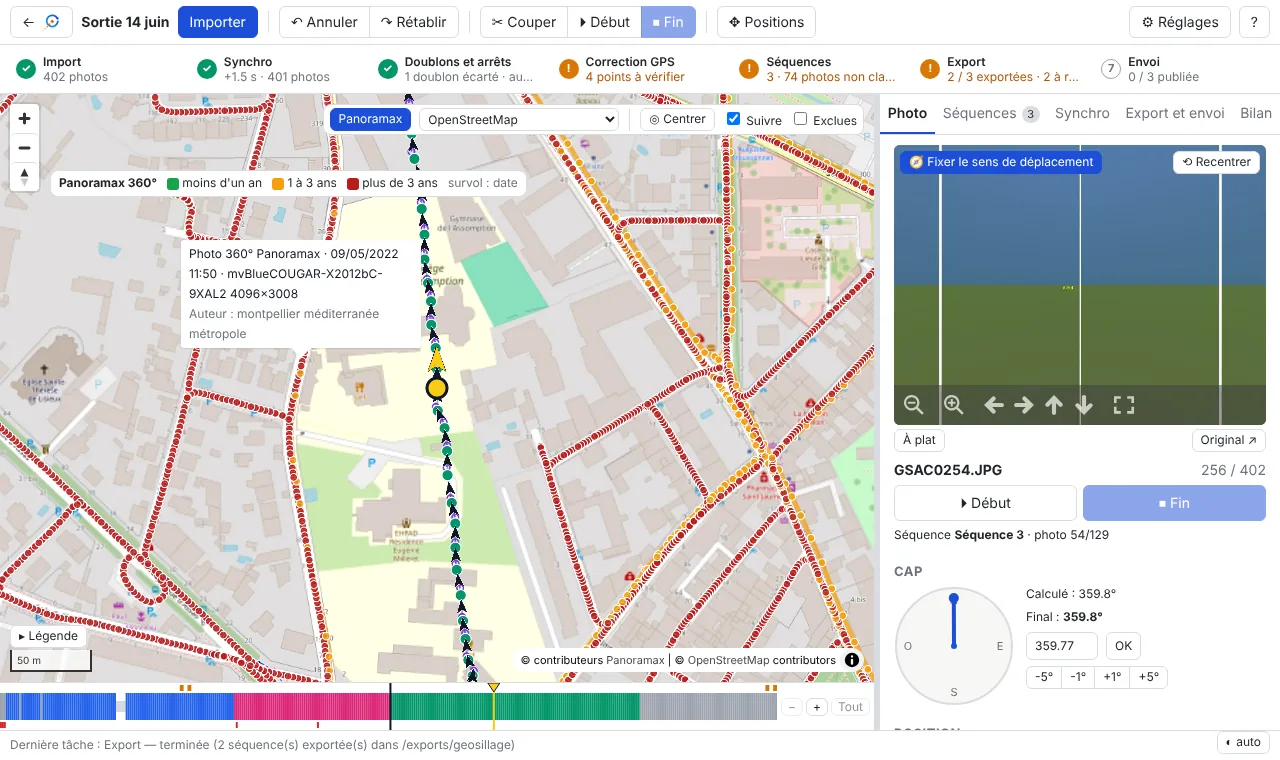
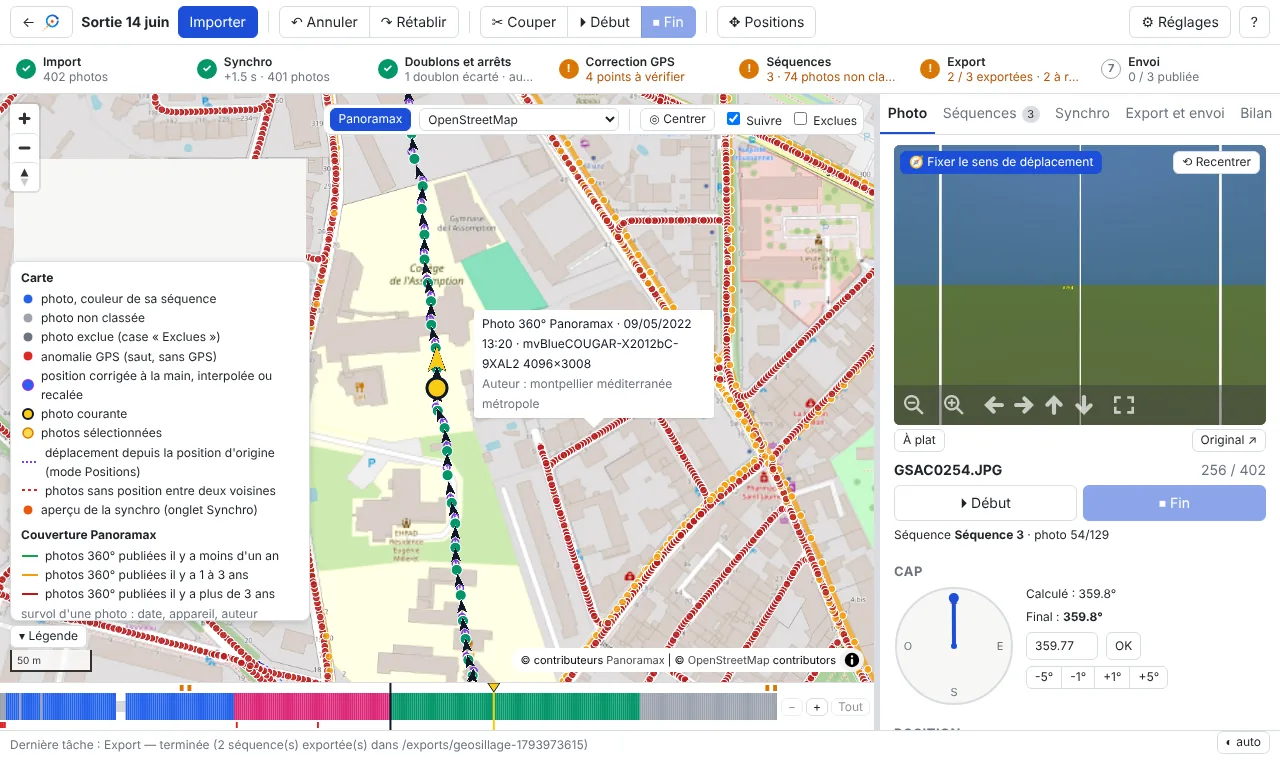
Légende de la couverture Panoramax dans la légende de la carte (#10)
* Légende de la couverture Panoramax dans la légende de la carte

Demande de Quentin : la légende flottante de la couverture Panoramax (classes d'âge) quitte le haut de la carte et
rejoint la légende repliable (groupe « Couverture Panoramax », affiché quand la couverture l'est). La légende est
limitée en hauteur (défilement) pour ne jamais recouvrir les boutons de zoom. Commentaire de PublishOptionsPanel
complété (bouton « Publier les n séquences »).

Claude-Session: https://claude.ai/code/session_01UxooiVhdVeQwoswzGWUzwV

* Revue #10 : capture de la couverture Panoramax avec la légende ouverte

doc/images/10-panoramax.webp régénérée (tools/captures.sh) : plus de boîte en haut de la carte, la légende est
ouverte avec le groupe « Couverture Panoramax » (captures.js l'ouvre avant la capture, et place la bulle de survol
hors de la légende). Hauteur maximale de la légende réduite : à 760 px de haut, son sommet passait sous les
boutons de zoom (vérifié à 960, 860, 760 et 700 px).

Claude-Session: https://claude.ai/code/session_01UxooiVhdVeQwoswzGWUzwV

---------

Changed region(s): [[0.0, 0.2118, 0.4062, 0.8171], [0.3438, 0.3934, 0.5625, 0.575], [0.4062, 0.9684, 0.4688, 0.9987]]

diff --git a/tools/captures.js b/tools/captures.js
@@ -65,12 +65,14 @@ const OUT = process.argv[2], BASE = process.argv[3] || 'http://127.0.0.1:8767/';
   // Panoramax overlay (real data from the meta-catalogue)
   await p.selectOption('select[aria-label="Fond de carte"]', 'osm'); await wait(800);
   await go(250); await p.click('button:has-text("Panoramax")'); await wait();
+  await p.click('.map-legend button'); await wait(300); // legend open: age classes of the coverage
   await p.evaluate(() => window.__pssMap.jumpTo({ zoom: 16.5 })); await tiles(); await wait(2500);
   const pt = await p.evaluate(() => { const m = window.__pssMap; const fs = m.queryRenderedFeatures({ layers: ['pnx-pictures'] }); const r = m.getContainer().getBoundingClientRect();
-    const f = fs.find(f => { const c = m.project(f.geometry.coordinates); return c.x > 150 && c.x < r.width - 150 && c.y > 150 && c.y < r.height - 150 }); if (!f) return null; const c = m.project(f.geometry.coordinates); return [c.x + r.left, c.y + r.top] });
+    const f = fs.find(f => { const c = m.project(f.geometry.coordinates); return c.x > 360 && c.x < r.width - 150 && c.y > 150 && c.y < r.height - 150 }); if (!f) return null; const c = m.project(f.geometry.coordinates); return [c.x + r.left, c.y + r.top] });
   if (pt) { await p.mouse.move(pt[0], pt[1]); await p.waitForSelector('.pnx-popup'); await p.waitForFunction(() => !/…/.test(document.querySelector('.pnx-popup').innerText), null, { timeout: 15000 }).catch(() => {}); }
   console.log('popup', pt && await p.locator('.pnx-popup').innerText().catch(() => ''));
   await shot('10-panoramax');
+  await p.click('.map-legend button'); await wait(300);
   await p.mouse.move(5, 300); await p.click('button:has-text("Panoramax")'); await wait();
 
   console.log('errors', JSON.stringify(errors)); await b.close();

diff --git a/frontend/src/ProjectView.tsx b/frontend/src/ProjectView.tsx
@@ -19,7 +19,7 @@ import { AddBasemap, Confirm, ValueDialog } from './Dialogs'
 import SequencesTab from './SequencesTab'
 import SyncTab from './SyncTab'
 import { positionAt, Track } from './timesync'
-import { AGE_CLASSES, loadOverlay, OverlaySettings, saveOverlay } from './panoramaxLayer'
+import { loadOverlay, OverlaySettings, saveOverlay } from './panoramaxLayer'
 import Timeline from './Timeline'
 import Viewer360 from './Viewer360'
 import ContextMenu, { MenuItem } from './ContextMenu'
@@ -1310,7 +1310,7 @@ export default function ProjectView({ projectId, onBack }: { projectId: string; 
               api.setPosition(projectId, id, lat, lon).then((r) => afterHeadingChange(r.undo), (er) => setError(er.message))
             }}
           />
-          <MapLegend />
+          <MapLegend panoramax={overlay.enabled ? overlay.url : null} />
           {(seqStart != null || (range && range[1] > range[0])) && !snapOpen && (
             <div className="selection-chip small-text" role="status">
               {seqStart != null ? (
@@ -1375,17 +1375,6 @@ export default function ProjectView({ projectId, onBack }: { projectId: string; 
               </label>
             )}
           </div>
-          {overlay.enabled && (
-            <div className="pnx-legend small-text" title={overlay.url}>
-              <strong>Panoramax 360°</strong>
-              {AGE_CLASSES.map((c) => (
-                <span key={c.label}>
-                  <span className="chip" style={{ background: c.color }} /> {c.label}
-                </span>
-              ))}
-              <span className="muted">survol : date</span>
-            </div>
-          )}
           {issuesStep && (
             <IssuesPanel
               step={issuesStep}

diff --git a/frontend/src/MapLegend.tsx b/frontend/src/MapLegend.tsx
@@ -1,4 +1,5 @@
 import { ReactNode, useState } from 'react'
+import { AGE_CLASSES } from './panoramaxLayer'
 
 // Meaning of the colours and marks of the map and the timeline (folded by default, remembered)
 const dot = (fill: string, stroke = '#ffffff', w = 1) => (
@@ -39,7 +40,8 @@ const TIMELINE: [ReactNode, string][] = [
   [bar('rgba(250,204,21,0.5)'), 'plage sélectionnée'],
 ]
 
-export default function MapLegend() {
+// panoramax: source of the coverage of photos already published, when shown on the map (null: hidden)
+export default function MapLegend({ panoramax }: { panoramax: string | null }) {
   const [open, setOpenState] = useState(() => {
     try {
       return localStorage.getItem('pss-legend') === '1'
@@ -70,6 +72,19 @@ export default function MapLegend() {
               </li>
             ))}
           </ul>
+          {panoramax && (
+            <>
+              <strong title={panoramax}>Couverture Panoramax</strong>
+              <ul>
+                {AGE_CLASSES.map((c) => (
+                  <li key={c.label}>
+                    {line(c.color)} photos 360° publiées il y a {c.label}
+                  </li>
+                ))}
+                <li className="muted">survol d'une photo : date, appareil, auteur</li>
+              </ul>
+            </>
+          )}
           <strong>Timeline</strong>
           <ul>
             {TIMELINE.map(([icon, label]) => (

diff --git a/frontend/src/styles.css b/frontend/src/styles.css
@@ -785,21 +785,6 @@ input.coord {
 .center {
   position: relative;
 }
-.pnx-legend {
-  position: absolute;
-  left: 50px;
-  top: 76px; /* under the map controls (Panoramax, background map, Centrer…), even on two lines */
-  z-index: 5;
-  display: flex;
-  gap: 10px;
-  flex-wrap: wrap;
-  align-items: center;
-  background: var(--panel);
-  border: 1px solid var(--border);
-  border-radius: 8px;
-  padding: 4px 8px;
-  max-width: calc(100% - 70px);
-}
 .pnx-popup .maplibregl-popup-content {
   padding: 4px 8px;
   font-size: 12px;
@@ -1272,6 +1257,8 @@ input.coord {
   gap: 4px;
 }
 .map-legend-body {
+  max-height: min(55vh, calc(100vh - 400px)); /* never over the zoom buttons: scrolls instead */
+  overflow-y: auto;
   background: var(--panel);
   border: 1px solid var(--border);
   border-radius: 8px;

diff --git a/frontend/src/Publication.tsx b/frontend/src/Publication.tsx
@@ -34,8 +34,9 @@ export function usePublishOptions() {
 }
 export type PublishOptions = ReturnType<typeof usePublishOptions>
 
-// Section « Publier sur Panoramax » of the Export tab: connection and options; each exported sequence has its own
-// « Publier » button in the list above
+// Section « Publier sur Panoramax » of the Export tab: connection, options, and « Publier les n séquences exportées non
+// publiées » (one confirmation, one api.publish call); each exported sequence also has its own « Publier » button in
+// the list above
 export function PublishOptionsPanel({
   o,
   projectId,

diff --git a/doc/GUIDE_UTILISATEUR.md b/doc/GUIDE_UTILISATEUR.md
@@ -162,8 +162,9 @@ séquences ont été corrigées depuis leur import ou leur dernier envoi).
 ### Surcouche Panoramax
 
 Bouton **Panoramax** (contrôles de la carte, en haut à droite) : affiche les photos 360° **déjà publiées**, pour voir ce qui manque ou ce qui est ancien.
-Couleur selon l'âge : vert moins d'un an, orange 1 à 3 ans, rouge plus de 3 ans. Séquences visibles à partir du
-zoom 7, photos à partir du zoom 15. Au survol : date, appareil, **auteur**.
+Couleur selon l'âge : vert moins d'un an, orange 1 à 3 ans, rouge plus de 3 ans (rappelé dans la **Légende** de la
+carte, groupe *Couverture Panoramax*, quand la couverture est affichée). Séquences visibles à partir du zoom 7,
+photos à partir du zoom 15. Au survol : date, appareil, **auteur**.
 
 Source (bouton **⚙ Réglages** de la barre d'outils) : **toutes les instances** (par défaut, méta-catalogue de panoramax.fr), OpenStreetMap
 France, IGN, ou l'adresse d'une autre instance.

diff --git a/doc/GUIDE_CODE.md b/doc/GUIDE_CODE.md
@@ -444,7 +444,8 @@ une colonne flex (barre d'outils, étapes, bandeau d'erreur, `.main`, barre des 
   `IssuesPanel.tsx` : fenêtre flottante (`useDraggable`, partagé avec `OsmSnapPanel`) des problèmes d'une étape
   (`STEP_KINDS`), groupés avec cause et correction (`ISSUE_TEXT`) ; ouverte par la `StepBar` (`onIssues`) ; plus de
   listes de corrections dans le *Bilan*.
-- `MapLegend.tsx` (repliée par défaut, `localStorage` `pss-legend`) ; pastille de sélection (`.selection-chip`) ;
+- `MapLegend.tsx` (repliée par défaut, `localStorage` `pss-legend`, avec les classes d'âge de la couverture Panoramax
+  quand elle est affichée) ; pastille de sélection (`.selection-chip`) ;
   carte et légende dans `.map-area` (relatif à la carte, pas à la timeline).
 - `Timeline` : bulle au survol (`HoverBubble`), zoom gardé sous `pss-timeline-<projet>` si le nombre de photos n'a
   pas changé ; photo et onglet gardés sous `pss-view-<projet>`.
